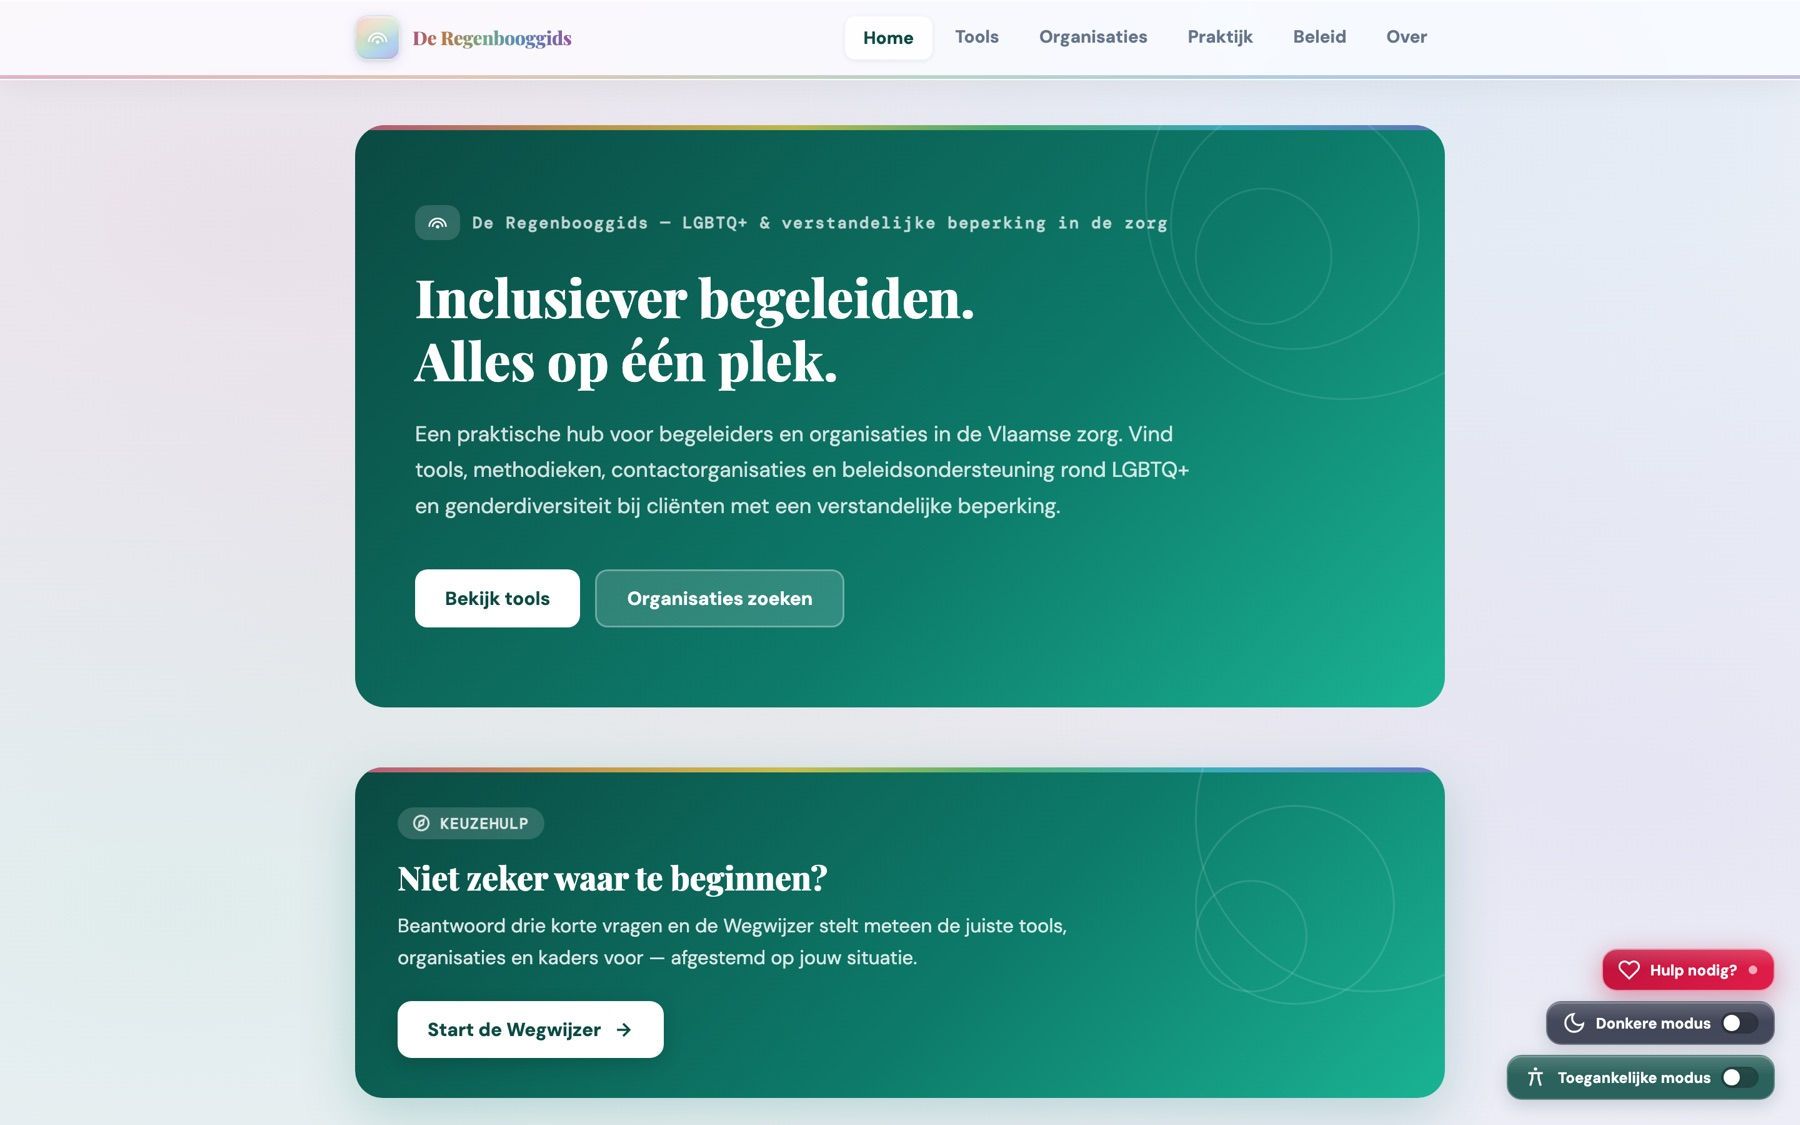
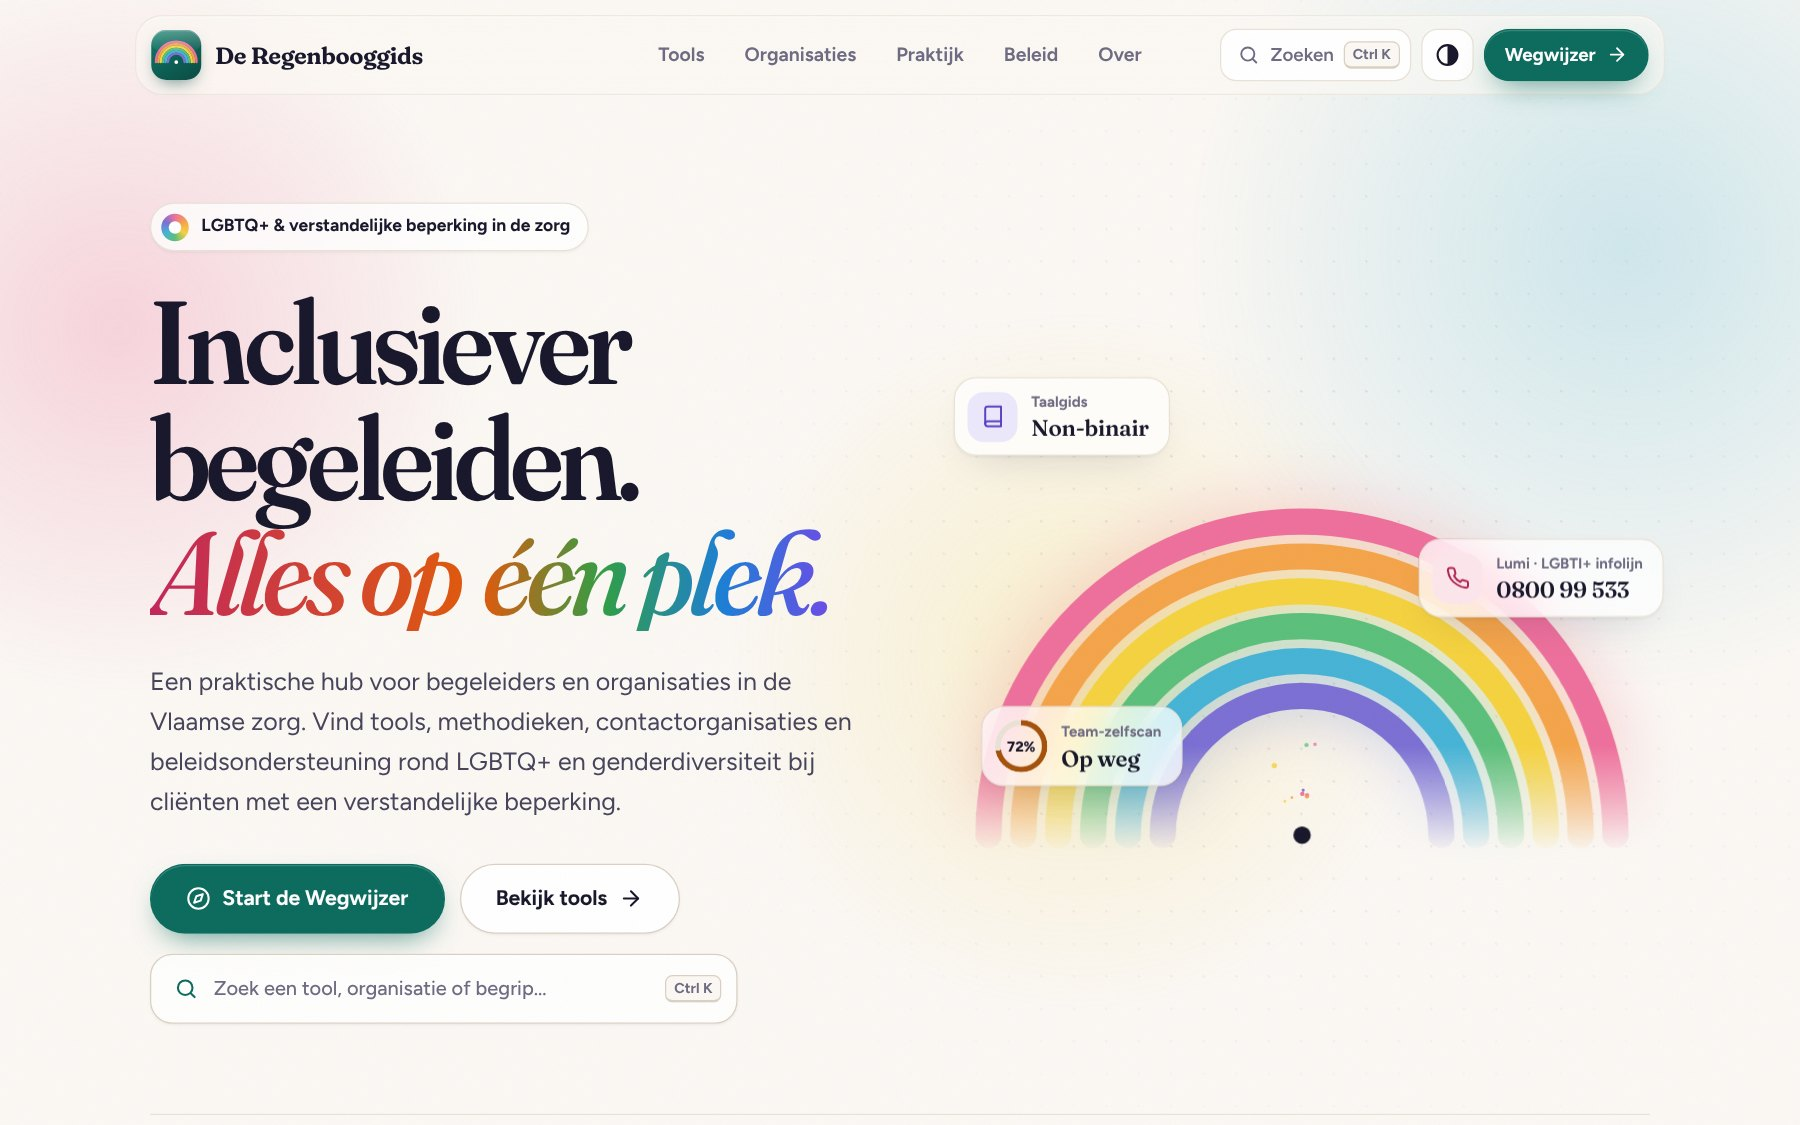
Restyle De Regenbooggids project card after the new site design
The card still showed the old dark-teal site. It now follows the new
deregenbooggids.be design: warm paper background with soft rose, sky and
yellow glows, a dotted grid and a blurred six-band rainbow behind the
browser window, tinted tags and a teal CTA. The screenshot is replaced
with the new homepage hero, the browser bar gets the rainbow favicon,
and a floating chip highlights the site's accessible mode.

Claude-Session: https://claude.ai/code/session_01MHexpGVMMQ8AUuhKKgTwT5

diff --git a/assets/css/style.css b/assets/css/style.css
@@ -1348,7 +1348,7 @@ html:not(.theme-sync) [data-theme="light"] .card:not(.card--link),
 }
 .project--thesis { --pc-bg: #1D1828; --pc-fg: #F3EDE4; --pc-muted: #B3A9C2; --pc-line: rgba(243, 237, 228, 0.16); }
 .project--emfi   { --pc-bg: #E5D7C1; --pc-fg: #231D18; --pc-muted: #62554A; --pc-line: rgba(35, 29, 24, 0.16); }
-.project--gids   { --pc-bg: #0D4840; --pc-fg: #ECF5F2; --pc-muted: #A5C9C0; --pc-line: rgba(236, 245, 242, 0.18); }
+.project--gids   { --pc-bg: #FBF8F4; --pc-fg: #17162A; --pc-muted: #46435A; --pc-line: #DAD1C3; }
 
 .project-copy {
   display: flex;
@@ -1524,15 +1524,77 @@ html:not(.theme-sync) [data-theme="light"] .card:not(.card--link),
 .project:hover .float-chip--a { transform: rotate(-2deg) translate(-8px, -10px); }
 .project:hover .float-chip--b { transform: rotate(2deg) translate(8px, 10px); }
 
-/* Regenbooggids — browservenster */
-.project--gids .project-visual { place-items: center start; }
+/* Regenbooggids — in de stijl van de site zelf: warm papier, de zesbandige boog, teal */
+.project--gids {
+  background:
+    radial-gradient(40% 55% at 0% 6%, rgba(238, 111, 156, 0.2), transparent 70%),
+    radial-gradient(45% 60% at 100% 0%, rgba(70, 179, 214, 0.2), transparent 70%),
+    radial-gradient(40% 50% at 46% 108%, rgba(245, 210, 63, 0.2), transparent 70%),
+    var(--pc-bg);
+}
+.project--gids .project-top { color: #6E6A82; }
+.project--gids .project-num {
+  border: 1.5px solid transparent;
+  background:
+    linear-gradient(var(--pc-bg), var(--pc-bg)) padding-box,
+    conic-gradient(#EE6F9C, #F4A44A, #F5D23F, #5BBF7A, #46B3D6, #7B6FD4, #EE6F9C) border-box;
+}
+.project--gids .project-title { font-weight: 560; font-variation-settings: "SOFT" 50; }
+.project--gids .tags li { border-color: transparent; background: var(--tone-bg); color: var(--tone); }
+.project--gids .tags li:nth-child(1) { --tone: #5B3FC4; --tone-bg: #ECE8FB; }
+.project--gids .tags li:nth-child(2) { --tone: #B4234F; --tone-bg: #FCE6EC; }
+.project--gids .tags li:nth-child(3) { --tone: #0B6B5D; --tone-bg: #DFF2EC; }
+.project--gids .tags li:nth-child(4) { --tone: #A4510B; --tone-bg: #FBEEDA; }
+.project--gids .project-cta {
+  background: #0B6B5D;
+  color: #FFFFFF;
+  font-weight: 600;
+  box-shadow: 0 1px 0 rgba(255, 255, 255, 0.18) inset, 0 10px 24px -10px rgba(11, 107, 93, 0.75);
+  transition: transform 0.5s var(--ease-out), background-color 0.3s;
+}
+.project--gids:hover .project-cta { background: #075247; }
+
+/* De kaart zelf knipt af; zo krijgt de gloed geen harde naad op de kolomrand */
+.project--gids .project-visual { place-items: center start; overflow: visible; }
+/* Stippenraster, zoals achter de boog op de site */
+.project--gids .project-visual::before {
+  content: '';
+  position: absolute;
+  inset: 0;
+  background-image: radial-gradient(circle at 1px 1px, rgba(23, 22, 42, 0.16) 1px, transparent 0);
+  background-size: 26px 26px;
+  -webkit-mask-image: radial-gradient(ellipse 60% 60% at 55% 45%, #000 10%, transparent 72%);
+          mask-image: radial-gradient(ellipse 60% 60% at 55% 45%, #000 10%, transparent 72%);
+  opacity: 0.55;
+}
+/* Zachte regenbooggloed achter het venster */
+.gids-glow {
+  position: absolute;
+  left: 4%;
+  top: -6%;
+  width: 104%;
+  height: auto;
+  overflow: visible;
+  filter: blur(28px);
+  opacity: 0.5;
+  pointer-events: none;
+}
+.gids-glow path { fill: none; stroke-width: 30; stroke-linecap: round; }
+.gids-glow path:nth-child(1) { stroke: #EE6F9C; }
+.gids-glow path:nth-child(2) { stroke: #F4A44A; }
+.gids-glow path:nth-child(3) { stroke: #F5D23F; }
+.gids-glow path:nth-child(4) { stroke: #5BBF7A; }
+.gids-glow path:nth-child(5) { stroke: #46B3D6; }
+.gids-glow path:nth-child(6) { stroke: #7B6FD4; }
 .browser {
+  position: relative;
   width: 118%;
   margin-left: 4%;
-  border-radius: 14px;
+  border-radius: 16px;
   overflow: hidden;
-  background: #F2EFF5;
-  box-shadow: 0 50px 90px -40px rgba(0, 0, 0, 0.65);
+  background: #FFFFFF;
+  border: 1px solid #E9E2D7;
+  box-shadow: 0 2px 6px rgba(23, 22, 42, 0.05), 0 50px 90px -40px rgba(23, 22, 42, 0.45);
   transform: perspective(1400px) rotateY(-10deg) rotateX(4deg);
   transform-origin: 0 50%;
   transition: transform 1s var(--ease-out);
@@ -1543,22 +1605,65 @@ html:not(.theme-sync) [data-theme="light"] .card:not(.card--link),
   align-items: center;
   gap: 6px;
   padding: 10px 14px;
-  background: #E4DFEA;
+  background: #F5F0E8;
+  border-bottom: 1px solid #E9E2D7;
 }
-.browser-bar i { width: 10px; height: 10px; border-radius: 50%; background: #CFC6D8; }
+.browser-bar i { width: 10px; height: 10px; border-radius: 50%; background: #DAD1C3; }
 .browser-bar i:nth-child(1) { background: #EE8C7E; }
 .browser-bar i:nth-child(2) { background: #F0C46B; }
 .browser-bar i:nth-child(3) { background: #8BCB8F; }
 .browser-bar span {
+  display: inline-flex;
+  align-items: center;
+  gap: 6px;
   margin-left: 12px;
-  padding: 3px 14px;
-  border-radius: 6px;
-  background: #F6F3F8;
+  padding: 3px 14px 3px 10px;
+  border-radius: 999px;
+  background: #FFFFFF;
+  border: 1px solid #E9E2D7;
   font-family: var(--font-mono);
   font-size: 0.66rem;
-  color: #6D6578;
+  color: #6E6A82;
 }
+.browser-fav { width: 13px; height: 13px; fill: none; stroke-width: 6; stroke-linecap: round; }
+.browser-fav path:nth-child(1) { stroke: #EE6F9C; }
+.browser-fav path:nth-child(2) { stroke: #F5D23F; }
+.browser-fav path:nth-child(3) { stroke: #46B3D6; }
 .browser img { width: 100%; height: auto; }
+/* Zwevende chip in de glasstijl van de site */
+.gids-chip {
+  position: absolute;
+  z-index: 2;
+  left: 5%;
+  bottom: 13%;
+  display: flex;
+  align-items: center;
+  gap: 11px;
+  padding: 9px 18px 9px 9px;
+  border-radius: 18px;
+  background: rgba(255, 255, 255, 0.8);
+  border: 1px solid #E9E2D7;
+  color: #17162A;
+  white-space: nowrap;
+  box-shadow: 0 1px 2px rgba(23, 22, 42, 0.04), 0 18px 40px -18px rgba(23, 22, 42, 0.35);
+  -webkit-backdrop-filter: blur(14px) saturate(1.4);
+          backdrop-filter: blur(14px) saturate(1.4);
+  transform: rotate(-4deg);
+  transition: transform 0.9s var(--ease-out);
+}
+.project:hover .gids-chip { transform: rotate(-1deg) translate(-8px, -10px); }
+.gids-chip-ic {
+  display: grid;
+  place-items: center;
+  width: 38px;
+  height: 38px;
+  border-radius: 12px;
+  background: #ECE8FB;
+  color: #5B3FC4;
+}
+.gids-chip-ic svg { width: 19px; height: 19px; fill: none; stroke: currentColor; stroke-width: 2; stroke-linecap: round; stroke-linejoin: round; }
+.gids-chip-txt small { display: block; font-size: 0.72rem; font-weight: 600; color: #6E6A82; line-height: 1.3; }
+.gids-chip-txt b { display: block; font-family: var(--font-display); font-size: clamp(0.92rem, 1.2vw, 1.08rem); font-weight: 600; letter-spacing: -0.01em; line-height: 1.2; }
 
 .work-more {
   display: flex;
@@ -2001,6 +2106,11 @@ html:not(.theme-sync) [data-theme="light"] .card:not(.card--link),
   .project-top { margin-bottom: 0; }
   .browser { width: 92%; margin: 2rem auto; transform: none; }
   .project--gids .project-visual { place-items: center; }
+  .gids-chip { left: 2%; bottom: 6%; gap: 8px; padding: 6px 12px 6px 6px; border-radius: 14px; }
+  .gids-chip-ic { width: 30px; height: 30px; border-radius: 10px; }
+  .gids-chip-ic svg { width: 16px; height: 16px; }
+  .gids-chip-txt small { font-size: 0.64rem; }
+  .gids-chip-txt b { font-size: 0.9rem; }
   .phone { transform: rotate(3deg) translateY(18%); width: 200px; }
 
   /* Zonder JavaScript: geen dode menuknop, maar een horizontaal scrollbare linkstrook */

diff --git a/index.html b/index.html
@@ -471,10 +471,15 @@
               <span class="project-cta">Bezoek de website <svg viewBox="0 0 16 16" aria-hidden="true"><path d="M4.5 11.5l7-7M5.5 4.5h6v6"/></svg></span>
             </div>
             <div class="project-visual" aria-hidden="true">
+              <svg class="gids-glow" viewBox="0 0 640 345"><path d="M32 344A288 288 0 0 1 608 344"/><path d="M64 344A256 256 0 0 1 576 344"/><path d="M96 344A224 224 0 0 1 544 344"/><path d="M128 344A192 192 0 0 1 512 344"/><path d="M160 344A160 160 0 0 1 480 344"/><path d="M192 344A128 128 0 0 1 448 344"/></svg>
               <div class="browser">
-                <div class="browser-bar"><i></i><i></i><i></i><span>deregenbooggids.be</span></div>
+                <div class="browser-bar"><i></i><i></i><i></i><span><svg class="browser-fav" viewBox="0 0 64 64"><path d="M6 41a26 26 0 0 1 52 0"/><path d="M12.1 41a19.9 19.9 0 0 1 39.8 0"/><path d="M18.2 41a13.8 13.8 0 0 1 27.6 0"/></svg>deregenbooggids.be</span></div>
                 <img src="assets/img/regenbooggids.jpg" width="1800" height="1125" alt="" loading="lazy" decoding="async">
               </div>
+              <span class="gids-chip">
+                <span class="gids-chip-ic"><svg viewBox="0 0 24 24"><circle cx="12" cy="12" r="10"/><circle cx="12" cy="7.3" r="1.4" fill="currentColor" stroke="none"/><path d="M7.5 10.2h9"/><path d="M10.4 10.2v3.6L9 18"/><path d="M13.6 10.2v3.6L15 18"/></svg></span>
+                <span class="gids-chip-txt"><small>Weergave</small><b>Toegankelijke modus</b></span>
+              </span>
             </div>
           </a>
         </article>
